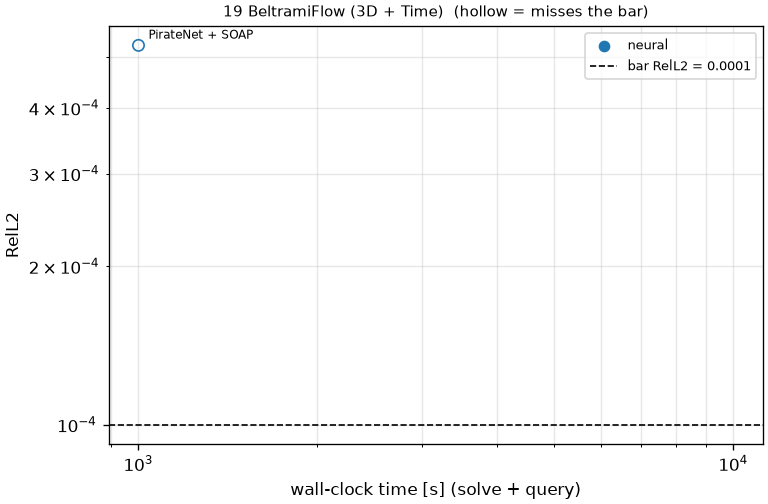
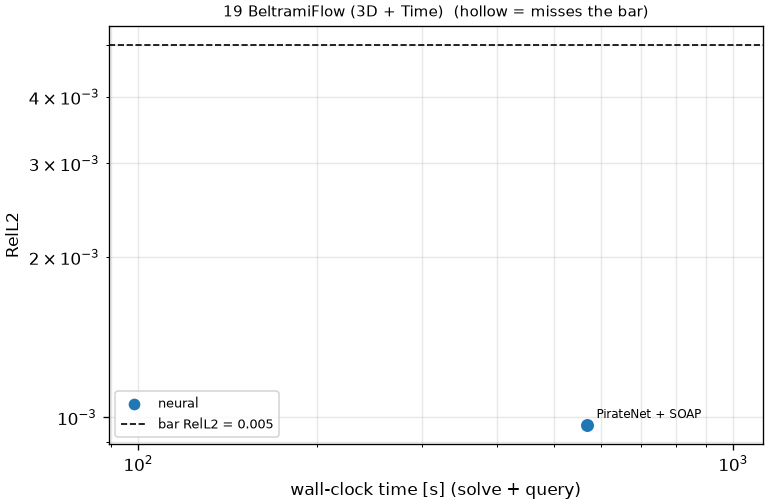
Submission 1 (FP32) results, set 5: track 19

diff --git a/README.md b/README.md
@@ -179,7 +179,7 @@ its tracker: RelL2 vs wall-clock time, one point per submission, bar dashed.
 | 16 GinzburgLandau (2D + Time) | [PirateNet + SOAP](tracks/track16_2DT_GinzburgLandau/submissions/submission_PR0001/solve.py) | 301.7 | 9.99e-01 (≤ 0.01) | 1.02e+00 (≤ 0.05) | no |
 | 17 RayleighTaylor (2D + Time) | [PirateNet + SOAP](tracks/track17_2DT_RayleighTaylor/submissions/submission_PR0001/solve.py) | 396.8 | 8.63e-01 (≤ 0.02) | 9.98e-01 (≤ 0.1) | no |
 | 18 KolmogorovFlow (2D + Time) | [PirateNet + SOAP](tracks/track18_2DT_KolmogorovFlow/submissions/submission_PR0001/solve.py) | 1001 | 1.21e+00 (≤ 0.05) | 1.41e+00 (≤ 0.15) | no |
-| 19 BeltramiFlow (3D + Time) | — | | | | |
+| 19 BeltramiFlow (3D + Time) | [PirateNet + SOAP](tracks/track19_3DT_BeltramiFlow/submissions/submission_PR0001/solve.py) | 566.7 | 9.69e-04 (≤ 0.005) | 1.65e-03 (≤ 0.01) | yes |
 <!-- tracks-table:end -->
 
 ### 01 VanDerPol (ODE)

diff --git a/tracks/track19_3DT_BeltramiFlow/README.md b/tracks/track19_3DT_BeltramiFlow/README.md
@@ -25,4 +25,12 @@ closed form (Ethier & Steinman 1994)
 
 ## Records
 
-No records yet.
+Current record: **566.7 s** (PirateNet + SOAP, maintainers, 2026-10-31, NVIDIA H100 80GB HBM3 (JAX)).
+
+| date | author | name | kind | time [s] | RelL2 | RelL∞ | passes | hardware |
+|---|---|---|---|---|---|---|---|---|
+| 2026-10-31 | maintainers | PirateNet + SOAP | neural | 566.7 | 9.69e-04 | 1.65e-03 | yes | NVIDIA H100 80GB HBM3 (JAX) |
+
+![accuracy_vs_time](figures/accuracy_vs_time.png)
+
+![activity](figures/activity.png)
